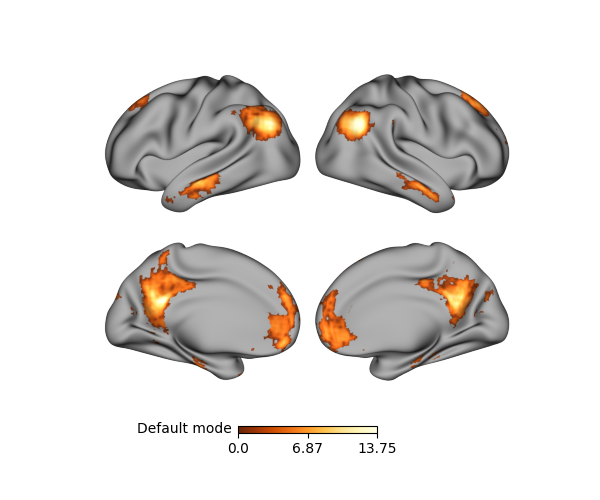
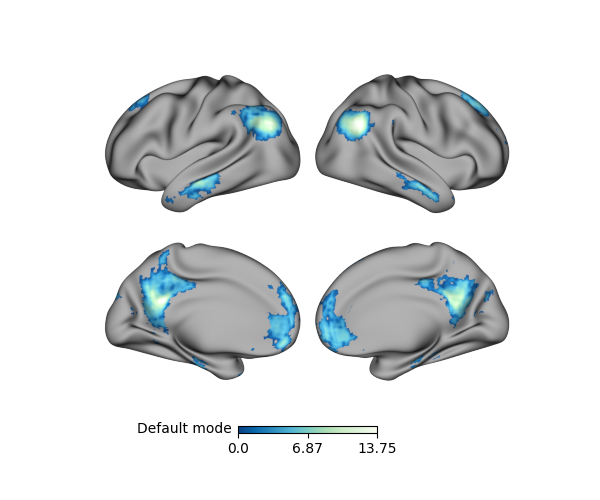
new build

diff --git a/docs/auto_examples/plot_tutorial_05.py b/docs/auto_examples/plot_tutorial_05.py
@@ -38,7 +38,7 @@ from surfplot.datasets import load_example_data
 
 # default mode network associations
 default = load_example_data(join=True)
-p.add_layer(default, cmap='YlOrBr_r', cbar_label='Default mode')
+p.add_layer(default, cmap='GnBu_r', cbar_label='Default mode')
 fig = p.build()
 fig.show()
 ###############################################################################
@@ -48,7 +48,7 @@ fig.show()
 # `frontoparietal` network associations from 
 # :func:`~surfplot.datasets.load_example_data`:
 fronto = load_example_data('frontoparietal', join=True)
-p.add_layer(fronto, cmap='BuGn_r', cbar_label='Frontoparietal')
+p.add_layer(fronto, cmap='YlOrBr_r', cbar_label='Frontoparietal')
 fig = p.build()
 fig.show()
 ###############################################################################

diff --git a/docs/auto_examples/sg_execution_times.rst b/docs/auto_examples/sg_execution_times.rst
@@ -5,16 +5,16 @@
 
 Computation times
 =================
-**00:07.247** total execution time for **auto_examples** files:
+**00:01.400** total execution time for **auto_examples** files:
 
 +-----------------------------------------------------------------------------+-----------+--------+
-| :ref:`sphx_glr_auto_examples_plot_tutorial_03.py` (``plot_tutorial_03.py``) | 00:02.094 | 0.0 MB |
+| :ref:`sphx_glr_auto_examples_plot_tutorial_05.py` (``plot_tutorial_05.py``) | 00:01.400 | 0.0 MB |
 +-----------------------------------------------------------------------------+-----------+--------+
-| :ref:`sphx_glr_auto_examples_plot_tutorial_04.py` (``plot_tutorial_04.py``) | 00:01.744 | 0.0 MB |
+| :ref:`sphx_glr_auto_examples_plot_tutorial_01.py` (``plot_tutorial_01.py``) | 00:00.000 | 0.0 MB |
 +-----------------------------------------------------------------------------+-----------+--------+
-| :ref:`sphx_glr_auto_examples_plot_tutorial_01.py` (``plot_tutorial_01.py``) | 00:01.268 | 0.0 MB |
+| :ref:`sphx_glr_auto_examples_plot_tutorial_02.py` (``plot_tutorial_02.py``) | 00:00.000 | 0.0 MB |
 +-----------------------------------------------------------------------------+-----------+--------+
-| :ref:`sphx_glr_auto_examples_plot_tutorial_05.py` (``plot_tutorial_05.py``) | 00:01.207 | 0.0 MB |
+| :ref:`sphx_glr_auto_examples_plot_tutorial_03.py` (``plot_tutorial_03.py``) | 00:00.000 | 0.0 MB |
 +-----------------------------------------------------------------------------+-----------+--------+
-| :ref:`sphx_glr_auto_examples_plot_tutorial_02.py` (``plot_tutorial_02.py``) | 00:00.934 | 0.0 MB |
+| :ref:`sphx_glr_auto_examples_plot_tutorial_04.py` (``plot_tutorial_04.py``) | 00:00.000 | 0.0 MB |
 +-----------------------------------------------------------------------------+-----------+--------+

diff --git a/docs/auto_examples/plot_tutorial_05.rst b/docs/auto_examples/plot_tutorial_05.rst
@@ -73,7 +73,7 @@ any colormap, including those from `seaborn`_ and `cmasher`_,  for example.
 
     # default mode network associations
     default = load_example_data(join=True)
-    p.add_layer(default, cmap='YlOrBr_r', cbar_label='Default mode')
+    p.add_layer(default, cmap='GnBu_r', cbar_label='Default mode')
     fig = p.build()
     fig.show()
 
@@ -100,7 +100,7 @@ multiple layers. To demonstrate that, let's add another layer using the
 .. code-block:: default
 
     fronto = load_example_data('frontoparietal', join=True)
-    p.add_layer(fronto, cmap='BuGn_r', cbar_label='Frontoparietal')
+    p.add_layer(fronto, cmap='YlOrBr_r', cbar_label='Frontoparietal')
     fig = p.build()
     fig.show()
 
@@ -183,7 +183,7 @@ for another example of colorbar styling.
 
 .. rst-class:: sphx-glr-timing
 
-   **Total running time of the script:** ( 0 minutes  1.207 seconds)
+   **Total running time of the script:** ( 0 minutes  1.400 seconds)
 
 
 .. _sphx_glr_download_auto_examples_plot_tutorial_05.py:

diff --git a/docs/auto_examples/examples/sg_execution_times.rst b/docs/auto_examples/examples/sg_execution_times.rst
@@ -5,8 +5,8 @@
 
 Computation times
 =================
-**00:00.615** total execution time for **auto_examples_examples** files:
+**00:00.625** total execution time for **auto_examples_examples** files:
 
 +------------------------------------------------------------------------------------+-----------+--------+
-| :ref:`sphx_glr_auto_examples_examples_plot_example_01.py` (``plot_example_01.py``) | 00:00.615 | 0.0 MB |
+| :ref:`sphx_glr_auto_examples_examples_plot_example_01.py` (``plot_example_01.py``) | 00:00.625 | 0.0 MB |
 +------------------------------------------------------------------------------------+-----------+--------+

diff --git a/docs/auto_examples/index.rst b/docs/auto_examples/index.rst
@@ -26,7 +26,7 @@ These tutorials provide a step-by-step walkthrough of ``surfplot``, covering eac
 
 .. raw:: html
 
-    <div class="sphx-glr-thumbcontainer" tooltip="This tutorial gives a quick overview of surfplot before diving into more detail in subsequent ...">
+    <div class="sphx-glr-thumbcontainer" tooltip="This tutorial gives a quick overview of surfplot before diving into more detail in subsequent t...">
 
 .. only:: html
 

diff --git a/docs/auto_examples/plot_tutorial_02.rst b/docs/auto_examples/plot_tutorial_02.rst
@@ -119,7 +119,7 @@ parameter, if desired. Values range from 0 (black) to 1 (white). For example:
 
 .. rst-class:: sphx-glr-timing
 
-   **Total running time of the script:** ( 0 minutes  0.934 seconds)
+   **Total running time of the script:** ( 0 minutes  0.874 seconds)
 
 
 .. _sphx_glr_download_auto_examples_plot_tutorial_02.py:

diff --git a/docs/auto_examples/plot_tutorial_01.rst b/docs/auto_examples/plot_tutorial_01.rst
@@ -202,7 +202,7 @@ by the minimum and maximum values (this can be adjusted with the
 
 .. rst-class:: sphx-glr-timing
 
-   **Total running time of the script:** ( 0 minutes  1.268 seconds)
+   **Total running time of the script:** ( 0 minutes  1.200 seconds)
 
 
 .. _sphx_glr_download_auto_examples_plot_tutorial_01.py:

diff --git a/docs/auto_examples/plot_tutorial_03.rst b/docs/auto_examples/plot_tutorial_03.rst
@@ -308,7 +308,7 @@ data match the number of vertices of the surface(s)!
 
 .. rst-class:: sphx-glr-timing
 
-   **Total running time of the script:** ( 0 minutes  2.094 seconds)
+   **Total running time of the script:** ( 0 minutes  2.150 seconds)
 
 
 .. _sphx_glr_download_auto_examples_plot_tutorial_03.py:

diff --git a/docs/auto_examples/examples/plot_example_01.rst b/docs/auto_examples/examples/plot_example_01.rst
@@ -75,7 +75,7 @@ stylizing for a clean-looking figure.
 
 .. rst-class:: sphx-glr-timing
 
-   **Total running time of the script:** ( 0 minutes  0.615 seconds)
+   **Total running time of the script:** ( 0 minutes  0.625 seconds)
 
 
 .. _sphx_glr_download_auto_examples_examples_plot_example_01.py:

diff --git a/docs/auto_examples/plot_tutorial_04.rst b/docs/auto_examples/plot_tutorial_04.rst
@@ -231,7 +231,7 @@ For example:
 
 .. rst-class:: sphx-glr-timing
 
-   **Total running time of the script:** ( 0 minutes  1.744 seconds)
+   **Total running time of the script:** ( 0 minutes  1.952 seconds)
 
 
 .. _sphx_glr_download_auto_examples_plot_tutorial_04.py:
